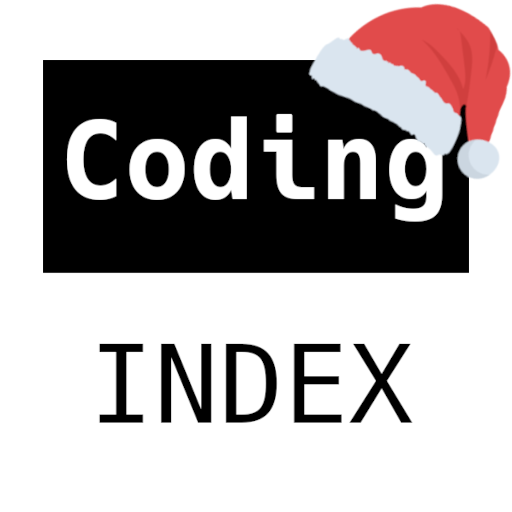
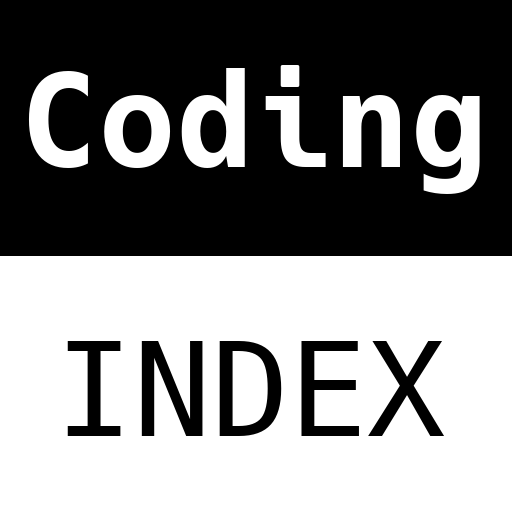
Christmas & New Year's done. Welcome, 2021.

diff --git a/_includes/header.html b/_includes/header.html
@@ -7,7 +7,7 @@
 {% assign meta_description = page.content | strip_html | strip_newlines | xml_escape | truncate: 300 %}
 
 <!doctype html>
-<html>
+<html class="height-full">
   <head>
     <meta charset="utf-8">
     <meta name="description" content="{{ meta_description }}" />
@@ -18,10 +18,4 @@
     <link href="{{ "/assets/styles.css" | relative_url }}" rel="stylesheet" type="text/css">
     <link href="/favicon.png" rel="icon" type="image/png" sizes="128x128">
   </head>
-  <body class="christmas" style="width: 100vw; overflow: hidden">
-    <div class="snowfall">
-      {% for i in (1..180) %}
-        <div class="snow"></div>
-      {% endfor %}
-    </div>
-    <div style="height: 100vh; overflow-y: scroll">
+  <body class="height-full" style="width: 100vw; overflow-x: hidden">

diff --git a/_includes/footer.html b/_includes/footer.html
@@ -1,10 +1,7 @@
-      <footer>
-        <div class="container-md p-3 text-gray text-center">
-          <p>Copyright &copy; CodingIndex 2020</p>
-          <p>Merry Christmas, and Happy New Year! :christmas_tree:</p>
-	  <p>Santa Hat by <a href="https://www.flaticon.com/free-icon/hat_744546?term=santa%20hat&page=1&position=4&related_item_id=744546">Vectors Market</a></p>
-        </div>
-      </footer>
-    </div>
+    <footer>
+      <div class="container-md p-3 text-gray text-center">
+        <p>Copyright &copy; CodingIndex 2021</p>
+      </div>
+    </footer>
   </body>
 </html>

diff --git a/assets/styles.scss b/assets/styles.scss
@@ -4,7 +4,6 @@
 @import url('https://fonts.googleapis.com/css?family=Rubik:400,500,700,900');
 @import url('https://fonts.googleapis.com/css?family=Roboto+Mono:400,500,700');
 @import 'highlight-syntax';
-@import 'christmas';
 
 body {
   font-family: 'Rubik', sans-serif;
